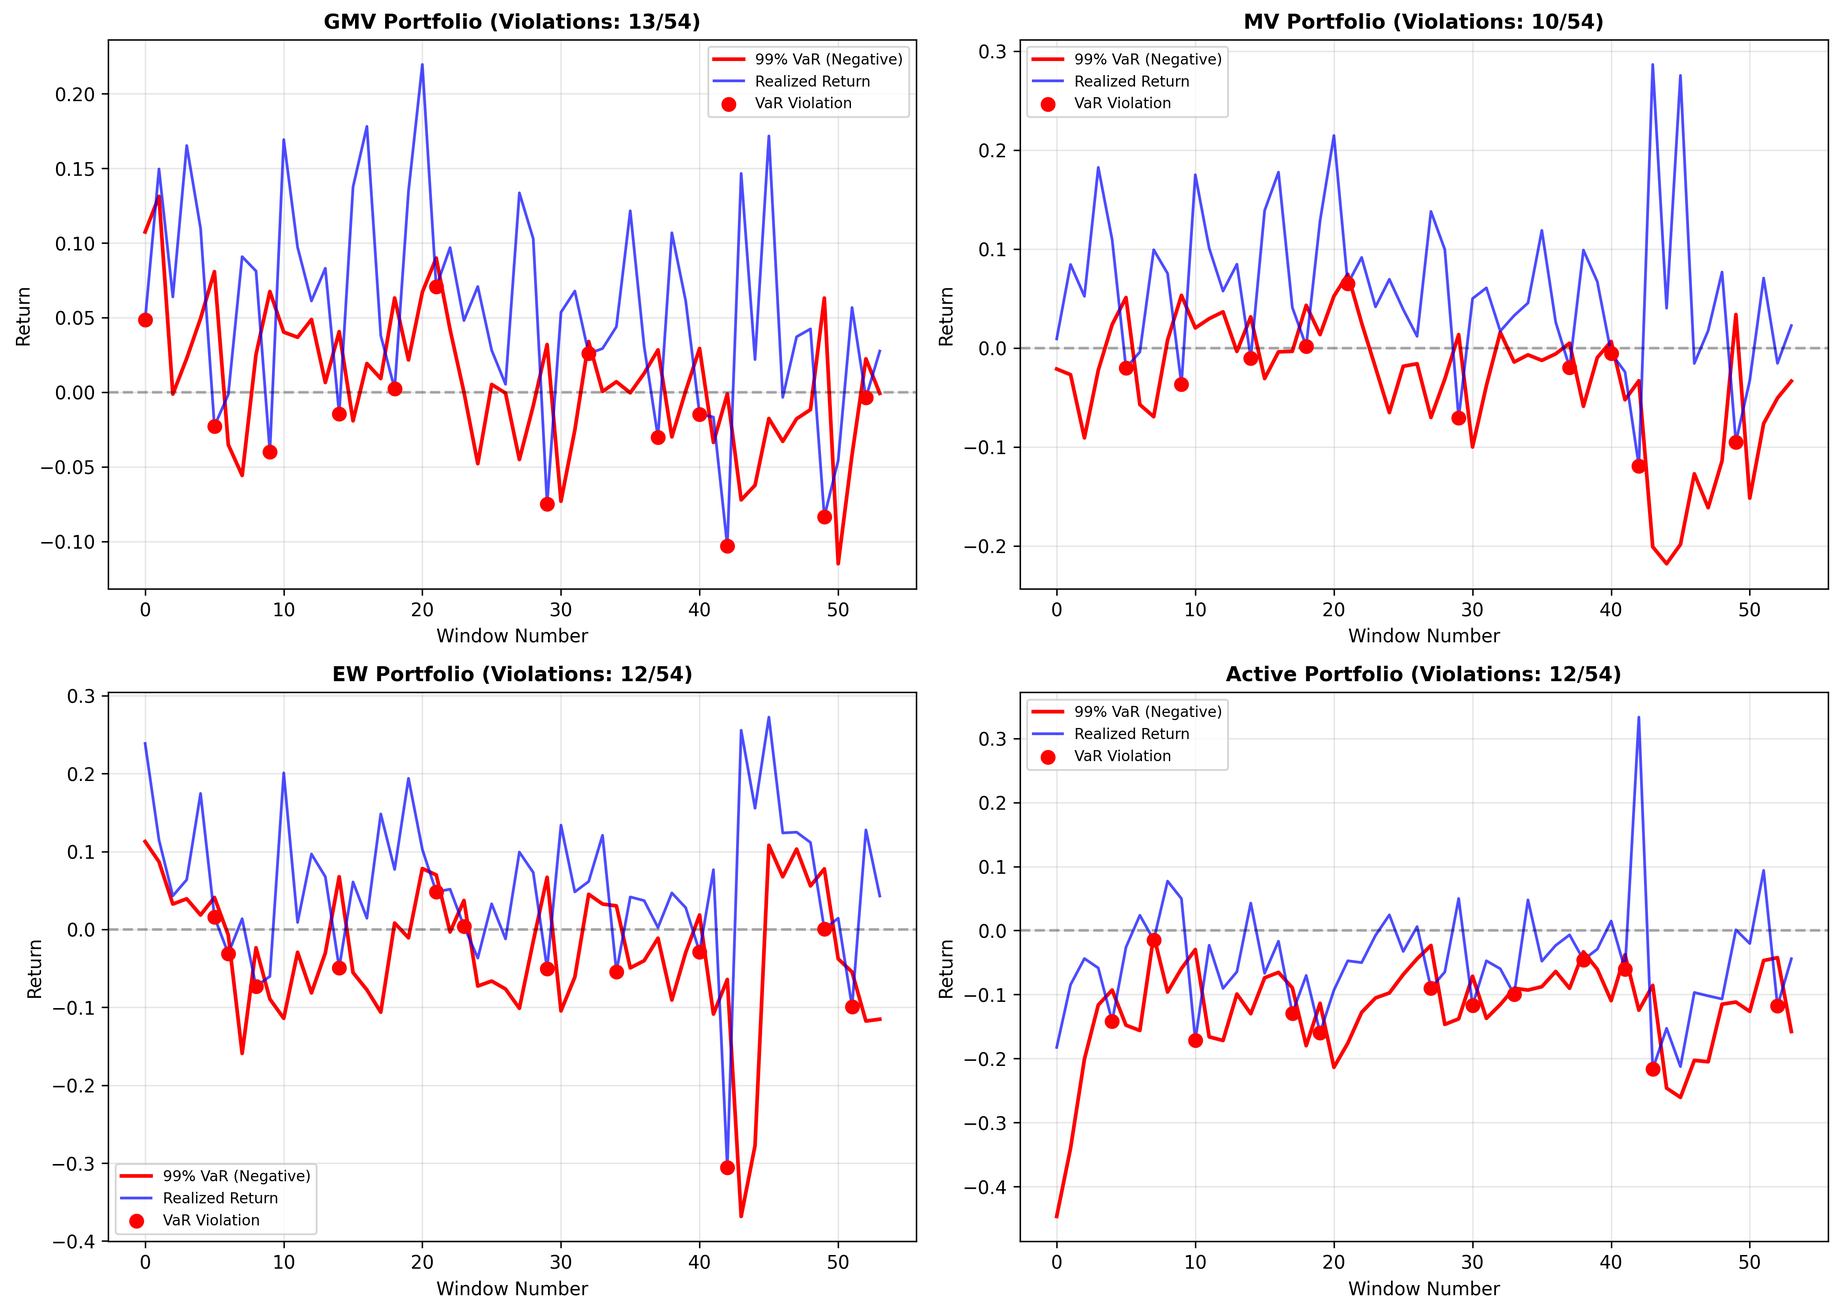
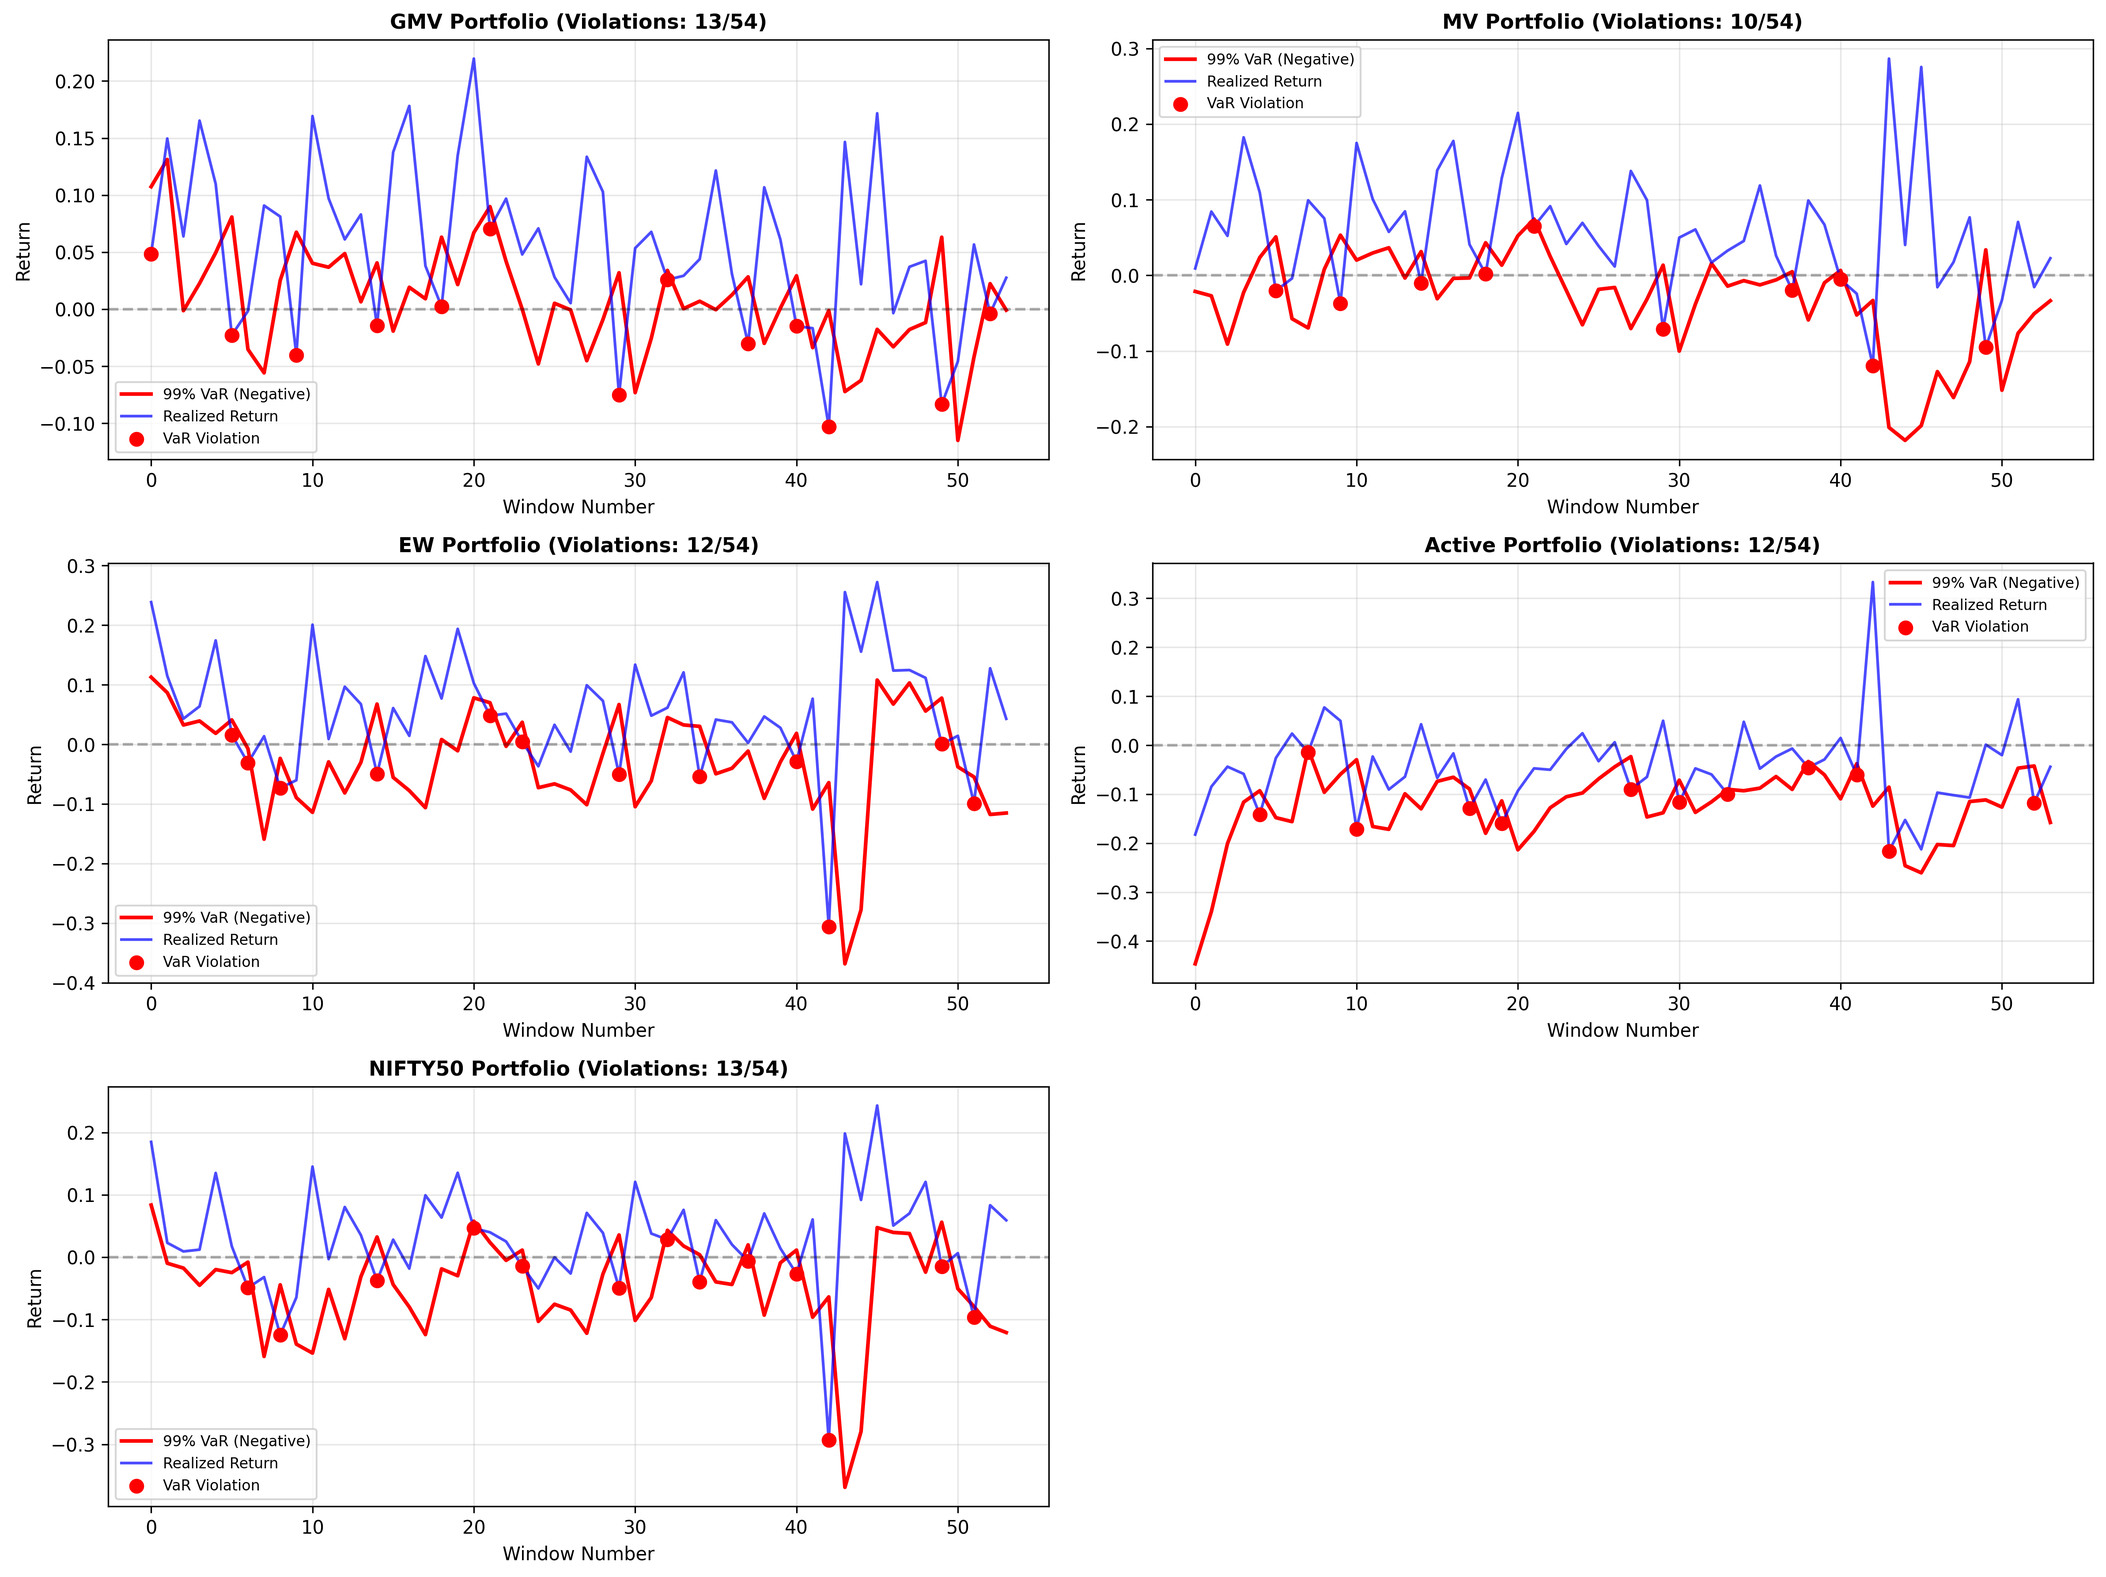
rolling window file changed and readme added

diff --git a/rolling_window_backtesting.py b/rolling_window_backtesting.py
@@ -5,15 +5,11 @@ from scipy import stats
 from scipy.optimize import minimize
 import warnings
 warnings.filterwarnings('ignore')
-
 import data_preprocessing as dp
 import portfolio_weights_calculations as pc
-# ============================================================================
-# STEP 3: ROLLING WINDOW BACKTEST
-# ============================================================================
 
-def get_window_data(returns_df, factors_df, start_date, end_date):
-    """Extract data for a specific window"""
+def extract_window_data(returns_df, factors_df, start_date, end_date):
+    """Select returns and factor data within a date range"""
     mask = (returns_df['Date'] >= start_date) & (returns_df['Date'] <= end_date)
     window_returns = returns_df[mask].reset_index(drop=True)
     
@@ -25,121 +21,82 @@ def get_window_data(returns_df, factors_df, start_date, end_date):
     
     return window_returns, window_factors
 
-def calculate_holding_return(returns_df, weights, stock_names, start_date, end_date):
+def compute_holding_returns(returns_df, weights, stock_names, start_date, end_date):
     """
-    Calculate realized portfolio return over holding period
-    
-    Methodology:
-    - Uses portfolio weights from formation period (no rebalancing during holding)
-    - Computes daily portfolio returns: R_p,t = sum(w_i * R_i,t)
-    - Compounds simple returns over holding period: (1+R_1)*(1+R_2)*...*(1+R_T) - 1
-    
-    Return Definition:
-    - All returns are simple returns (not log returns)
-    - Compounding follows: R_{0,T} = prod(1 + R_t) - 1
+    Compute portfolio return over a holding period.
+    - Uses weights from formation period.
+    - Daily portfolio return: sum(weight * stock return)
+    - Compounded over the period: cumulative = prod(1+daily returns) - 1
     """
-    window_returns, _ = get_window_data(returns_df, None, start_date, end_date)
+    window_returns, _ = extract_window_data(returns_df, None, start_date, end_date)
     
-    if weights is None:  # Market portfolio (NIFTY Index)
+    if weights is None: 
         portfolio_returns = window_returns['NIFTY Index'].values
     else:
-        # Portfolio returns each day: R_p,t = sum(w_i * R_i,t)
-        stock_returns = window_returns[stock_names].values
-        portfolio_returns = stock_returns @ weights
+        stock_returns = window_returns[stock_names].values      # Portfolio returns each day: R_p,t = sum(weight * Return)
+        portfolio_returns = stock_returns @ weights             # Computing simple returns over holding period: (1+R_1)*(1+R_2)*...*(1+R_T) - 1
     
-    # Compound simple returns over holding period: (1+R_1)*(1+R_2)*...*(1+R_T) - 1
     cumulative_return = np.prod(1 + portfolio_returns) - 1
-    
     return cumulative_return
 
-def rolling_window_backtest(stocks_df, factors_df):
-    """Perform rolling window backtest"""
+def perform_rolling_backtest(stocks_df, factors_df):
+    """Run rolling window backtest over multiple periods"""
     returns_df = dp.compute_returns(stocks_df)
     
-    # Define windows
+    # Define formation and holding windows
     windows = []
     start_date = pd.Timestamp('2009-01-01')
     end_date = pd.Timestamp('2022-12-31')
-    
     current_formation_start = start_date
     
     while True:
-        # Formation period: 6 months
+        # formation period = 6 months
         formation_end = current_formation_start + pd.DateOffset(months=6) - pd.Timedelta(days=1)
-        
-        # Holding period: 3 months after formation
+        # holding period = 3 months after formation
         holding_start = formation_end + pd.Timedelta(days=1)
         holding_end = holding_start + pd.DateOffset(months=3) - pd.Timedelta(days=1)
-        
         if holding_end > end_date:
             break
-        
         windows.append({
             'formation_start': current_formation_start,
             'formation_end': formation_end,
             'holding_start': holding_start,
             'holding_end': holding_end
         })
-        
-        # Shift by 3 months
-        current_formation_start = current_formation_start + pd.DateOffset(months=3)
+        # move by 3 months
+        current_formation_start += pd.DateOffset(months=3)
     
     print(f"\nTotal rolling windows: {len(windows)}")
     
-    # Results storage
-    results = {
-        'GMV': [],
-        'MV': [],
-        'EW': [],
-        'Active': [],
-        'NIFTY50': []
-    }
+    # Store returns and VaR results
+    results = {p: [] for p in ['GMV', 'MV', 'EW', 'Active', 'NIFTY50']}
+    var_results = {p: {'var': [], 'realized': [], 'violations': 0} for p in results.keys()}
     
-    var_results = {
-        'GMV': {'var': [], 'realized': [], 'violations': 0},
-        'MV': {'var': [], 'realized': [], 'violations': 0},
-        'EW': {'var': [], 'realized': [], 'violations': 0},
-        'Active': {'var': [], 'realized': [], 'violations': 0}
-    }
-    
-    # Process each window
+    # Loop through each window
     for i, window in enumerate(windows):
         print(f"\nWindow {i+1}/{len(windows)}: Formation {window['formation_start'].date()} to {window['formation_end'].date()}")
         
-        # Get formation period data
-        formation_returns, formation_factors = get_window_data(
+        formation_returns, formation_factors = extract_window_data(
             returns_df, factors_df,
             window['formation_start'], window['formation_end']
         )
         
-        # Get stock names (exclude Date and NIFTY Index)
         stock_names = [col for col in formation_returns.columns if col not in ['Date', 'NIFTY Index']]
-        
-        # Remove stocks with missing data in formation period
-        valid_stocks = []
-        for stock in stock_names:
-            if formation_returns[stock].isna().sum() == 0:
-                valid_stocks.append(stock)
-        
-        stock_names = valid_stocks
+        stock_names = [s for s in stock_names if formation_returns[s].notna().all()]
         N = len(stock_names)
         
         if N < 2:
             print(f"  Skipping window: insufficient stocks ({N})")
             continue
         
-        # Calculate mean and covariance from formation period
+        # Compute mean and covariance
         stock_returns = formation_returns[stock_names].values
         mu = np.mean(stock_returns, axis=0)
-        Sigma = np.cov(stock_returns, rowvar=False)
+        Sigma = np.cov(stock_returns, rowvar=False) + np.eye(N) * 1e-8  # regularization
         
-        # Add small regularization to ensure positive definite
-        Sigma = Sigma + np.eye(N) * 1e-8
-        
-        # Risk-free rate (average over formation period)
         rf_avg = formation_factors['RF'].mean()
         
-        # Construct portfolios
+        # Portfolio weights
         w_gmv = pc.construct_gmv_portfolio(mu, Sigma)
         w_mv = pc.construct_tangency_portfolio(mu, Sigma, rf_avg)
         w_ew = pc.construct_ew_portfolio(N)
@@ -147,79 +104,41 @@ def rolling_window_backtest(stocks_df, factors_df):
             formation_returns, formation_factors, stock_names
         )
         
-        # Calculate holding period returns
+        # Holding period returns
         holding_returns = {
-            'GMV': calculate_holding_return(returns_df, w_gmv, stock_names,
-                                           window['holding_start'], window['holding_end']),
-            'MV': calculate_holding_return(returns_df, w_mv, stock_names,
-                                          window['holding_start'], window['holding_end']),
-            'EW': calculate_holding_return(returns_df, w_ew, stock_names,
-                                          window['holding_start'], window['holding_end']),
-            'Active': calculate_holding_return(returns_df, w_active, active_stocks,
-                                               window['holding_start'], window['holding_end']) if w_active is not None else
-                     calculate_holding_return(returns_df, None, None,
-                                            window['holding_start'], window['holding_end']),
-            'NIFTY50': calculate_holding_return(returns_df, None, None,
-                                               window['holding_start'], window['holding_end'])
+            'GMV': compute_holding_returns(returns_df, w_gmv, stock_names, window['holding_start'], window['holding_end']),
+            'MV': compute_holding_returns(returns_df, w_mv, stock_names, window['holding_start'], window['holding_end']),
+            'EW': compute_holding_returns(returns_df, w_ew, stock_names, window['holding_start'], window['holding_end']),
+            'Active': compute_holding_returns(returns_df, w_active, active_stocks, window['holding_start'], window['holding_end']) 
+                     if w_active is not None else compute_holding_returns(returns_df, None, None, window['holding_start'], window['holding_end']),
+            'NIFTY50': compute_holding_returns(returns_df, None, None, window['holding_start'], window['holding_end'])
         }
         
-        for portfolio in ['GMV', 'MV', 'EW', 'Active', 'NIFTY50']:
-            results[portfolio].append(holding_returns[portfolio])
+        for p in holding_returns.keys():
+            results[p].append(holding_returns[p])
         
-        # VaR calculation (99%, historical simulation)
-        # Methodology: Historical Simulation Method
-        # - Use formation period data to estimate L-period VaR
-        # - L = number of trading days in holding period (typically ~63 days for 3 months)
-        # - Simulate L-period returns by rolling window over formation period
-        # - Compound daily returns: (1+r1)*(1+r2)*...*(1+rL) - 1
-        # - 99% VaR = negative of 1st percentile of simulated L-period returns
-        # - Violation occurs if: realized_return < -VaR (i.e., loss exceeds VaR)
+        # 99% VaR via historical simulation
+        holding_data, _ = extract_window_data(returns_df, factors_df, window['holding_start'], window['holding_end'])
+        L = len(holding_data)
         
-        # Get holding period data for VaR
-        holding_data, _ = get_window_data(returns_df, factors_df,
-                                         window['holding_start'], window['holding_end'])
-        L = len(holding_data)  # Number of trading days in holding period
-        # Note: L ≈ 63 trading days for 3-month holding period (assuming ~21 trading days/month)
-        
-        # For each portfolio, calculate VaR
-        for portfolio in ['GMV', 'MV', 'EW', 'Active']:
+        for portfolio in ['GMV', 'MV', 'EW', 'Active','NIFTY50']:
             if portfolio == 'Active' and w_active is None:
-                weights = None
-                stocks = None
+                weights = stocks = None
+            elif portfolio == 'NIFTY50':
+                weights = stocks = None
             else:
                 weights = {'GMV': w_gmv, 'MV': w_mv, 'EW': w_ew, 'Active': w_active}[portfolio]
                 stocks = {'GMV': stock_names, 'MV': stock_names, 'EW': stock_names, 'Active': active_stocks}[portfolio]
             
-            # Historical simulation: use formation period to estimate VaR
-            # Portfolio returns are computed using formation period weights
-            if weights is None:  # Market portfolio (NIFTY Index)
-                daily_returns = formation_returns['NIFTY Index'].values
-            else:
-                stock_rets = formation_returns[stocks].values
-                daily_returns = stock_rets @ weights  # Portfolio daily returns
+            daily_returns = formation_returns['NIFTY Index'].values if weights is None else formation_returns[stocks].values @ weights
             
-            # Simulate L-period returns by rolling window over formation period
-            # Each simulation takes L consecutive daily returns and compounds them
-            n_simulations = len(daily_returns) - L + 1
-            simulated_returns = []
-            
-            for j in range(n_simulations):
-                period_rets = daily_returns[j:j+L]
-                # Compound simple returns: (1+r1)*(1+r2)*...*(1+rL) - 1
-                cumulative = np.prod(1 + period_rets) - 1
-                simulated_returns.append(cumulative)
-            
-            if len(simulated_returns) == 0:
+            # Simulate L-day returns
+            simulated_returns = [np.prod(1 + daily_returns[j:j+L]) - 1 for j in range(len(daily_returns) - L + 1)]
+            if not simulated_returns:
                 continue
-            
             simulated_returns = np.array(simulated_returns)
             
-            # 99% VaR: 1st percentile of simulated L-period returns
-            # VaR is the loss level, so we take negative of 1st percentile
             var_99 = -np.percentile(simulated_returns, 1)
-            
-            # Check violation: VaR violation occurs if realized loss exceeds VaR
-            # Violation: R_p,real < -VaR (i.e., realized_return < -var_99)
             realized_return = holding_returns[portfolio]
             violation = realized_return < -var_99
             
@@ -228,7 +147,5 @@ def rolling_window_backtest(stocks_df, factors_df):
             if violation:
                 var_results[portfolio]['violations'] += 1
     
-    # Convert results to DataFrame
     results_df = pd.DataFrame(results)
-    
     return results_df, var_results, windows

diff --git a/performance_analysis.py b/performance_analysis.py
@@ -82,41 +82,44 @@ def plot_cum_returns(results_df, save_path=None):
 
 """Plot VaR vs Realized returns"""
 def plot_portfolio_var_backtest(var_results, save_path=None):
-    fig, axes = plt.subplots(2, 2, figsize=(14, 10))
-    axes = axes.flatten()
+    portfolios = ['GMV', 'MV', 'EW', 'Active', 'NIFTY50']
     
-    portfolios = ['GMV', 'MV', 'EW', 'Active']
+    # 3x2 grid for 5 portfolios
+    fig, axes = plt.subplots(3, 2, figsize=(16, 12))
+    axes = axes.flatten()
     
     for idx, portfolio in enumerate(portfolios):
         ax = axes[idx]
 
-        # Plot as negative
-        var_values = -np.array(var_results[portfolio]['var']) 
+        var_values = -np.array(var_results[portfolio]['var'])
         realized = np.array(var_results[portfolio]['realized'])
         violations = var_results[portfolio]['violations']
-        
+
         x = range(len(var_values))
-        
+
         ax.plot(x, var_values, 'r-', label='99% VaR (Negative)', linewidth=2)
         ax.plot(x, realized, 'b-', label='Realized Return', linewidth=1.5, alpha=0.7)
         ax.axhline(y=0, color='k', linestyle='--', alpha=0.3)
-        
+
         # Highlight violations
         violation_mask = realized < var_values
         if np.any(violation_mask):
             ax.scatter(np.array(x)[violation_mask], realized[violation_mask],
                        color='red', s=50, zorder=5, label='VaR Violation')
-        
+
         ax.set_xlabel('Window Number', fontsize=10)
         ax.set_ylabel('Return', fontsize=10)
         ax.set_title(f'{portfolio} Portfolio (Violations: {violations}/{len(var_values)})',
                      fontsize=11, fontweight='bold')
         ax.legend(loc='best', fontsize=8)
         ax.grid(True, alpha=0.3)
-    
+
+    for j in range(len(portfolios), len(axes)):
+        fig.delaxes(axes[j])
+
     plt.tight_layout()
 
     if save_path is not None:
         plt.savefig(save_path, dpi=300, bbox_inches='tight')
-    
+
     plt.show()

diff --git a/main.py b/main.py
@@ -74,7 +74,7 @@ def main():
     # 3. Rolling window backtest
     # -----------------------------
     print("\n3. Running rolling window backtest...")
-    results_df, var_results, windows = bt.rolling_window_backtest(stocks_df, factors_df)
+    results_df, var_results, windows = bt.perform_rolling_backtest(stocks_df, factors_df)
     
     # Save rolling returns
     rolling_returns_path = 'results/rolling_returns.csv'

diff --git a/README.md b/README.md
@@ -1,0 +1,43 @@
+# Portfolio Analysis and VaR Backtesting
+
+This project performs **portfolio construction, rolling window backtesting, and VaR (Value-at-Risk) analysis** using historical stock and market factor data.
+
+---
+
+## Features
+
+1. **Data preprocessing**: Cleans and filters stock and factor datasets.
+2. **Portfolio construction**: Builds multiple portfolios:
+   - GMV (Global Minimum Variance)
+   - MV (Mean-Variance / Tangency)
+   - EW (Equally Weighted)
+   - Active (based on factor models)
+   - NIFTY50 (market benchmark)
+3. **Rolling window backtest**:
+   - Formation period: 6 months
+   - Holding period: 3 months
+   - Computes cumulative returns for each windowg
+4. **VaR backtesting**:
+   - 99% confidence level
+   - Historical simulation method
+   - Records violations per portfolio
+5. **Performance metrics**: Calculates standard metrics (annualized return, volatility, Sharpe ratio, etc.)
+6. **Plots**: Generates cumulative returns and VaR backtest charts.
+
+---
+
+## Getting Started
+
+### Requirements
+
+- Python 3.x
+- Required libraries:
+  ```bash
+  pip install pandas numpy matplotlib scipy
+  ```
+
+### Running the Code
+
+## Run the main script:
+
+- python3 main.py
